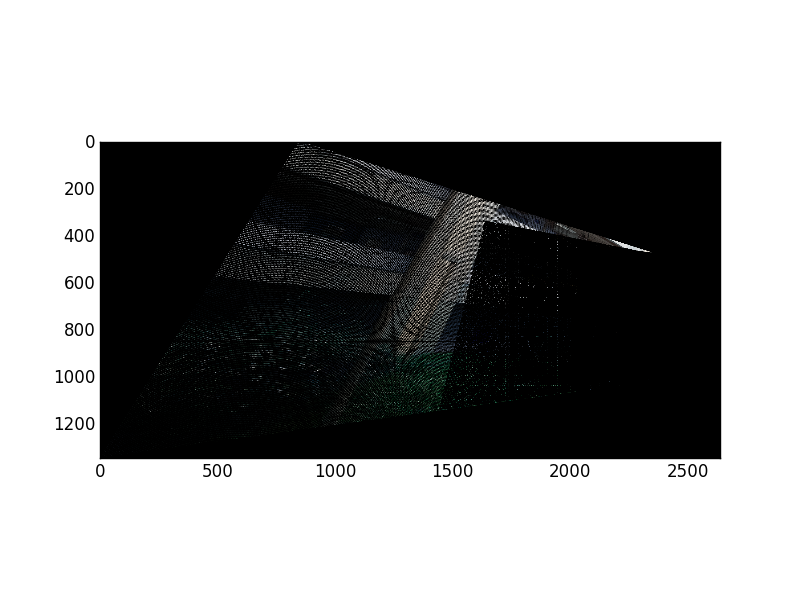
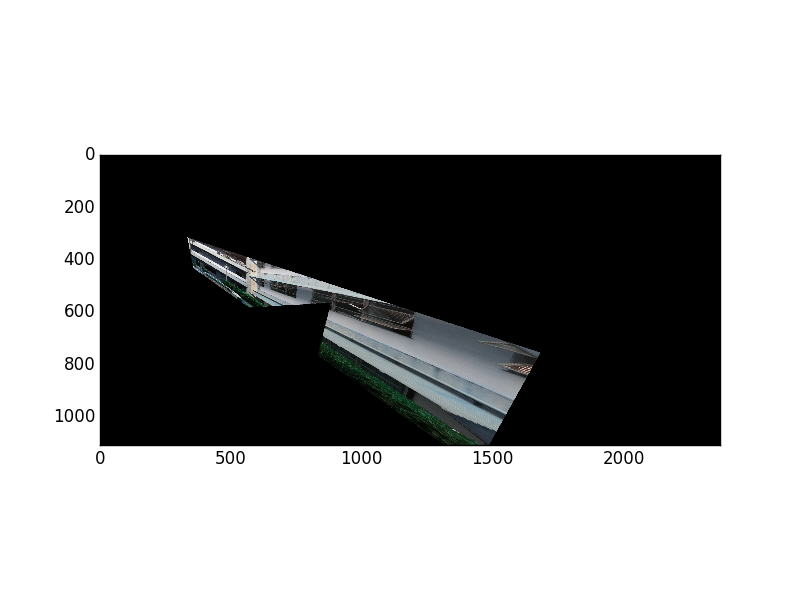
Not yet, need to use the inverse

diff --git a/tp2.py b/tp2.py
@@ -5,9 +5,9 @@ import math
 import imagehelpers as ih
 import threadingloops as tl
 
-MASK_SIZE = 500
+MASK_SIZE = 3000
 
-MAX_HEIGHT = 800.00
+MAX_HEIGHT = 1600.00
 
 SIFT_SIFT = 0
 FAST_BRIEF = 1
@@ -204,22 +204,23 @@ class ImageBlock:
             if normal_pt[1] < min_y:
                 min_y = normal_pt[1]
 
-        max_x += -1*min_x
-        max_y += -1*min_y
 
         min_x *= -1
         min_y *= -1
+
+        max_x += min_x
+        max_y += min_y
 
         print min_y, min_x, max_y, max_x
         return min_y, min_x, max_y, max_x
 
     def warp_pure(self, h, new_h, new_w, min_u=0, min_v=0):
         print 'Warp'
-
+        h_inv = np.linalg.inv(h)
         warped_img = np.zeros((new_h, new_w, 3), np.uint8)
 
-        args = h, min_u, min_v, new_h, new_w
-        tl.ThreadingLoopsImage(4, self.get_image(), warped_img, ih.warp_pure_pixel, args).execute()
+        args = h_inv, min_u, min_v, new_h, new_w
+        tl.ThreadingLoopsImage(4, warped_img, self.get_image(), ih.warp_pure_pixel, args).execute()
         return warped_img
 
     def combine(self, target_block, name):
@@ -246,6 +247,8 @@ class ImageBlock:
     def blend_image(self, target, homography):
 
         min_x, min_y, new_h, new_w, target_img_wrp = self.warp_target(homography, target)
+
+        ih.save_image(target_img_wrp, 'wrapped_' + target.get_path())
 
         self_img_wrp = self.warp_pure(np.identity(3), new_h, new_w, min_x, min_y)
         ih.save_image(self_img_wrp, 'wrapped_' + self.get_path())
@@ -353,20 +356,21 @@ class Mosaic:
         # result = ImageBlock('img2_warp.jpg', target_img_wrp)
         # result = ImageBlock('img123.jpg',  block_list[2].blend_image(result, h_list[1]))
 
-        result = block_list[3].combine(block_list[2], 'img34')
-        result.detect()
+        result = block_list[2].combine(block_list[3], 'step1')
+        result.detect(left=MASK_SIZE)
 
-        result = result.combine(block_list[1], 'img234')
-        result.detect()
+        # #
+        result = result.combine(block_list[1], 'step2')
+        result.detect(left=MASK_SIZE)
+        #
+        result = result.combine(block_list[0], 'step3')
+        result.detect(right=MASK_SIZE)
 
-        result = result.combine(block_list[4], 'img2345')
-        result.detect()
+        result = result.combine(block_list[4], 'step4')
+        result.detect(right=MASK_SIZE)
 
-        result = result.combine(block_list[0], 'img12345')
-        result.detect()
-
-        result = result.combine(block_list[5], 'img123456')
-        result.detect()
+        result = result.combine(block_list[5], 'step5')
+        result.detect(right=MASK_SIZE)
 
         # for b, t in img_combinations:
         #

diff --git a/imagehelpers.py b/imagehelpers.py
@@ -2,6 +2,8 @@ import matplotlib.pyplot as plt
 import cv2
 import numpy as np
 import threadingloops as tl
+import math
+
 
 def determinant(homography):
     return (homography[0, 1] * homography[1, 1] * homography[2, 2]) - (
@@ -114,20 +116,26 @@ def warp_pure_pt(h, pt):
     return np.array([u, v])
 
 
-def warp_pure_pixel_internal(h, x, y):
-    u = (h[0, 0] * x) + (h[0, 1] * y) + (h[0, 2])
-    v = (h[1, 0] * x) + (h[1, 1] * y) + (h[1, 2])
-    w = (h[2, 0] * x) + (h[2, 1] * y) + (h[2, 2])
+def warp_pure_pixel_internal(h_inv, x, y):
+    u = (h_inv[0, 0] * x) + (h_inv[0, 1] * y) + (h_inv[0, 2])
+    v = (h_inv[1, 0] * x) + (h_inv[1, 1] * y) + (h_inv[1, 2])
+    w = (h_inv[2, 0] * x) + (h_inv[2, 1] * y) + (h_inv[2, 2])
     u /= w
     v /= w
     return v, u
 
 
-def warp_pure_pixel(image, out_image, y, x, args):
+# because we are using the inverse homography, the output image will be the input
+# H_INV x P' = P from P' = H x P
+def warp_pure_pixel(warp_image, out_image, y, x, args):
+    h_inv, min_u, min_v, new_h, new_w = args
+    orig_h, orig_w = out_image.shape[:2]
 
-    h, min_u, min_v, new_h, new_w = args
-    v, u = warp_pure_pixel_internal(h, x, y)
-    u += min_u
-    v += min_v
-    if (u < new_w - 1) and (v < new_h - 1) and (u >= 0) and (v >= 0):
-        out_image[v, u] = image[y, x]
+    v, u = warp_pure_pixel_internal(h_inv, x, y)
+    u -= min_u
+    v -= min_v
+
+    # u = math.ceil(u)
+    # v = math.ceil(v)
+    if (u < orig_w) and (v < orig_h) and (u >= 0) and (v >= 0):
+        warp_image[y, x] = out_image[v, u]
